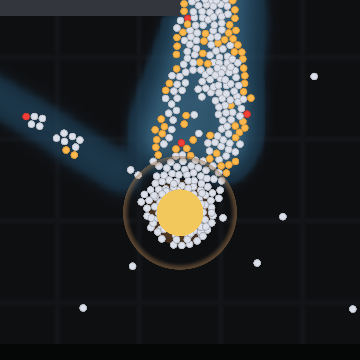
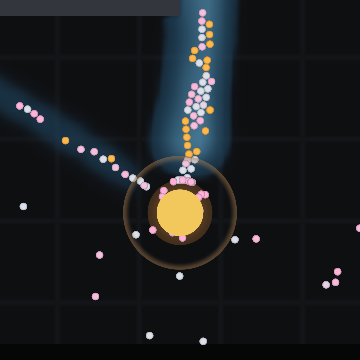
Finish M2.1: the experiments are pictures now, and M2 signs off
M2's last outstanding piece was a gallery of the M1 scenarios.  Both
bridge experiments now render from the apparatus itself, under the same
protocol the acceptance rows assert on -- a fixed colony of the size the
experiment is calibrated for -- so the figures are the runs the claims
are made from rather than illustrations of them.  Binary commits 99.7% to
one arm; the double takes the short one 91.5% of the time.

The README opens with a picture.  Goss's double bridge, framed to the
whole arena so the nest and the source are both in it: the caption claims
two routes between the same two points, and that has to be visible in the
image or the claim is decoration.  A reader who scrolls no further has
still seen the result.

Also added to the README, because it is a result and not a test detail:
the apparatus has a working density window.  Past about 900 ants the long
arm wins -- congestion stops being noise and starts being the thing that
selects -- and below about 250 there is too little traffic for the
nonlinearity to latch.  A bridge result quoted without its colony size is
under-specified.

Two fixes the pictures found, which no test would have:

  - Every ant rendered pink.  Founder ages were seeded across a window
    scaled to the maturity gate, so switching that gate off collapsed the
    window to one tick and the whole founding colony was newborn for the
    rest of the run.  A parameter set to zero should not silently take a
[…]

diff --git a/README.md b/README.md
@@ -1,5 +1,14 @@
 # antsim
 
+![Two routes to the same food, one of them shorter. The colony finds it.](docs/images/14-hero.png)
+
+*Goss's double bridge, run on this model. Two corridors lead from the nest to
+the food and one is longer. Nothing in the simulation can measure a distance,
+compare two routes, or tell that an alternative exists — yet the traffic
+collapses onto the short one, because ants that take it get home sooner and lay
+pheromone sooner. Every mark in that picture was deposited by an ant that
+walked there.*
+
 **Version M2.1 · 2026-08-15** — the renderer, the interactive window, and the
 round of corrections that watching it produced. See [where it
 is](#where-it-is) for what that covers and what is next.
@@ -27,8 +36,13 @@ experiments, run on the model, with the papers' own criteria.
 
 ### Deneubourg's binary bridge (1990) — symmetry breaking
 
+![The binary bridge: two equal arms, and the colony committed to one of them](docs/images/12-binary-bridge.png)
+
 Two arms of **equal** length between nest and food. There is no better route,
-so any departure from an even split has to be the colony's own doing.
+so any departure from an even split has to be the colony's own doing. In the
+picture the two corridors are identical and one of them is carrying almost all
+the traffic — that asymmetry is the entire result, and it was produced by the
+run rather than drawn.
 
 | seed | arm A | arm B | committed to |
 |---|---|---|---|
@@ -113,6 +127,38 @@ SCENARIO=scenarios/goss-double-bridge.json make live
 A test asserts that the files and the Lisp constructors build the same
 apparatus vertex for vertex — otherwise the published result and the thing you
 can look at would be two different experiments with the same name.
+
+### The experiment has a working density window
+
+Both bridges are run with a **fixed** colony, because that is how they were run
+in the laboratory: the question is whether trail-laying *alone* selects an arm,
+so anything else that could do the selecting has to be held still. A colony
+that breeds during the run is exactly such a thing.
+
+How many ants turns out to matter more than that, and it is the sort of result
+this project exists to find. Over ten seeds, with the population held fixed:
+
+| ants | worst replicate | mean share |
+|---|---|---|
+| 150 | 0.544 | 0.805 |
+| **250** | **0.671** | 0.788 |
+| 400 | 0.552 | 0.723 |
+| 900 | *long arm wins* | 0.690 |
+| 1200 | *long arm wins* | 0.668 |
+
+**Past about 900 ants the long arm wins.** Crowding does not merely weaken the
+shortest-path result — it *inverts* it, because congestion in the corridors
+starts deciding the route instead of pheromone. Below about 250 the opposite
+failure: too little traffic for the nonlinearity to latch onto, so individual
+runs wander.
+
+So a bridge result quoted without its colony size is under-specified, and this
+model will tell you a different thing about ants depending on how many of them
+you put in the room. That is not a defect to be tuned away; it is the same
+congestion effect visible everywhere else in these pictures, arriving where it
+can be measured. The full record is in
+[docs/experiments.md](docs/experiments.md), including three explanations that
+were wrong before this one.
 
 ![An established trail between nest and food](docs/images/03-trail.png)
 
@@ -225,9 +271,10 @@ nest. That is the first ants home, laying the first pheromone.
 ![Forty seconds: the first thread](docs/images/01-searching.png)
 
 By **5 minutes** that thread has become a road — in fact two of them, which is
-the frame [above](#what-emerges). The total is 78 263 and the population has
-grown from 150 to 266: the first turn of the loop that drives everything after
-it, where food comes in, workers are made, and more workers thicken the trail.
+the frame [above](#what-emerges). The total is 56 208, and the population is still exactly the 150 it started
+with: the colony is feeding itself but has not yet banked enough surplus for
+the queen to lay against, and the brood she does lay takes time to emerge
+(§3.10). Growth comes later, and lags the food that pays for it.
 
 Everything in the pictures above grew from those first ants, by the ants' own
 rules. The colour scale is identical across every image, so a trail that looks
@@ -235,12 +282,12 @@ stronger is stronger.
 
 ## How it ends
 
-The source in this scenario is finite, and it runs out after **23 minutes**.
+The source in this scenario is finite, and it runs out after **28 minutes**.
 What happens over the next six is the part worth watching.
 
 ### The road outlives the source
 
-At the moment the source empties, the trail is at full strength — 91 580 units
+At the moment the source empties, the trail is at full strength — 71 004 units
 — and the colony is still pouring ants onto it.
 
 ![The source has just run out](docs/images/09-abandoned.png)
@@ -250,20 +297,20 @@ whatever pheromone is in front of it; an ant deposits only when it is carrying
 food. So the traffic continues and the renewal stops, and evaporation starts
 taking the road out from under the ants still walking it.
 
-**Two minutes later** the trail is down to 12 426 — 86% gone — and the ants are
+**Two minutes later** the trail is down to 9 621 — 86% gone — and the ants are
 still packed along the line where it was, including a knot where the food used
 to be. Not one of them is orange, because there is nothing left to carry.
 
 ![Two minutes on: walking a road that is dissolving](docs/images/10-fading.png)
 
-**Six minutes** and it is 228, from 91 580. The structure is simply gone, and
+**Six minutes** and it is 176, from 71 004. The structure is simply gone, and
 with it every trace of where the food had been. The colony disperses back into
 the random walk it started with — and the red ants are the ones that no longer
 have the reserve to try again.
 
 ![Six minutes on: nothing left](docs/images/11-collapsed.png)
 
-The population is *rising* through all three frames — 750, 782, 811 — because
+The population is *rising* through all three frames — 390, 414, 462 — because
 the colony is still converting its stored food into workers while its road
 dissolves. It is at its largest a few minutes after it has already lost.
 
@@ -465,8 +512,10 @@ threshold**, and **task reallocation**. The first two need a two-source
 apparatus, which is a much smaller job than the bridge was now that the
 apparatus pattern exists.
 
-M2 is still not signed off: it is specified to include a gallery of the M1
-scenarios, and now that those scenarios exist the gallery should render them.
+**M2 is signed off.** Its last outstanding piece was a gallery of the M1
+scenarios; both bridge experiments now render from the apparatus itself, under
+the protocol the acceptance rows assert on, so the pictures at the top of this
+page are the same runs the claims are made from.
 
 Three smaller things §5.1 asks for and M2 has not built: obstacles are a flat
 fill with no soft outline, food quality is not encoded in colour or saturation,
@@ -484,10 +533,27 @@ value on the strongest part of the trail.
 
 The colony in the pictures grows to a **carrying capacity** rather than
 increasing without bound: workers burn energy to live, the colony's stock is the
-difference between what foragers bring in and what the nest consumes, and when
-that reaches zero the birth rate does too. How many ants a colony can support is
-therefore a result of how far the food is and how good the trail to it is, which
-is the coupling §3.10 is about.
+difference between what foragers bring in and what the nest consumes, and how
+many ants a colony can support is therefore a result of how far the food is and
+how good the trail to it is. That is the coupling §3.10 is about.
+
+Getting there took the round's largest correction. The rule had no feedback
+term — a fixed share of the larder became workers every minute regardless — and
+a growth rule with no feedback has a fixed point, which for this one was **zero
+reserve**. The colony grew until its upkeep matched everything its foragers
+could carry and then sat there with nothing banked, which is why so many runs
+showed a colony starving beside a full source. It was never failing to fetch
+food; it was spending all of it on more mouths. Brood now goes through one queen
+at a bounded rate, into a pipeline that takes time to emerge, and the population
+has an age structure the renderer shades.
+
+Three mechanisms built in the same round ship **off**, with their numbers
+recorded rather than their reasoning: U-turns on a lost trail, forager
+expendability, and breeding from a per-worker reserve. That last one measured
+*better* than what shipped and is off anyway, because it would have the colony
+compute stock per living worker — a colony-wide aggregate, which is precisely
+what this model refuses everywhere else. Results decide between mechanisms that
+are equally defensible; they do not decide whether a mechanism is defensible.
 
 ## Copyright and licence
 

diff --git a/docs/concept.md b/docs/concept.md
@@ -1649,10 +1649,46 @@ magnitude above 3.2σ every single time, and every ant left on a wild angle
 deterministically. The draws look independent and are not. **One stream,
 one question.**
 
+A second round followed, and it went further than corrections:
+
+- **Ants could not feel walls.** The collision pass removes only the
+  component *into* a surface, so a blind ant slid along it and marked it
+  while sliding, and the mark recruited others onto the same wall. The
+  antennae now veto a direction that is inside terrain — and, separately
+  and more importantly, veto the *home bearing* too, since a laden ant is
+  steered by the bearing and not by the choice function (§3.2, §3.4).
+  Four times the food delivered, and deaths from 126 a run to 0.5.
+- **The colony had no regulation of any kind.** It converted a share of
+  its larder into workers every minute regardless, so the fixed point of
+  its own growth rule was zero reserve — and a colony with no reserve
+  cannot absorb the jams and trail collapses this simulation produces
+  constantly. Brood now goes through one queen at a bounded rate into a
+  pipeline that takes time to emerge (§3.10).
+- **The population acquired an age structure**, and the renderer shades
+  it, because until the brood rules there was nothing to see.
+- **The bridge experiments acquired a protocol** — a fixed colony, of a
+  size the apparatus actually works at. Past about 900 ants the long arm
+  wins: crowding stops being noise and starts being the thing that
+  selects (§3.8).
+
+Three of the mechanisms built in this round ship **off**, with their
+numbers recorded: U-turns on a lost trail, forager expendability, and
+breeding from a per-worker reserve. The last of those measured *best* of
+anything tried and is off anyway, because it requires the colony to
+compute stock per living worker — a colony-wide aggregate, which is what
+this model refuses everywhere else.
+
 The lesson is the same one M2 was justified by, and it keeps holding: the
 renderer earns its early place because *the model's failures are shaped
 like pictures*. Every one of these was invisible to the aggregate
-statistics that were being printed at the time.
+statistics that were being printed at the time — and two of the round's
+best findings came from a human watching the window and saying what
+looked wrong, then the measurement agreeing.
+
+The measurements themselves live in
+[experiments.md](experiments.md), including the ones that decided against
+a change, and the four ways a measurement was got wrong before it was got
+right.
 
 **M3 — the ant model.** The vector ant, the tripod gait rig, VS
 articulation, LOD, antennae, payload, state tint. The one genuinely novel
